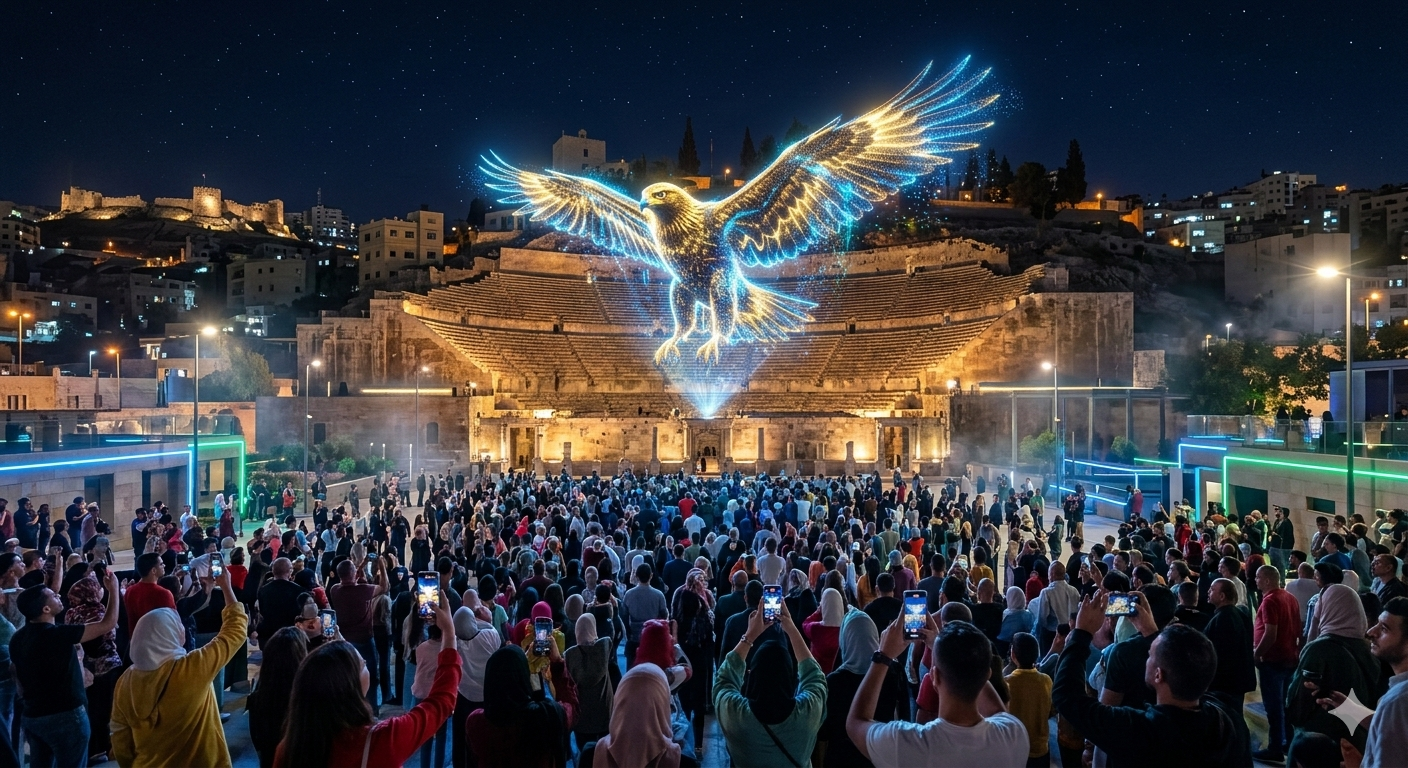
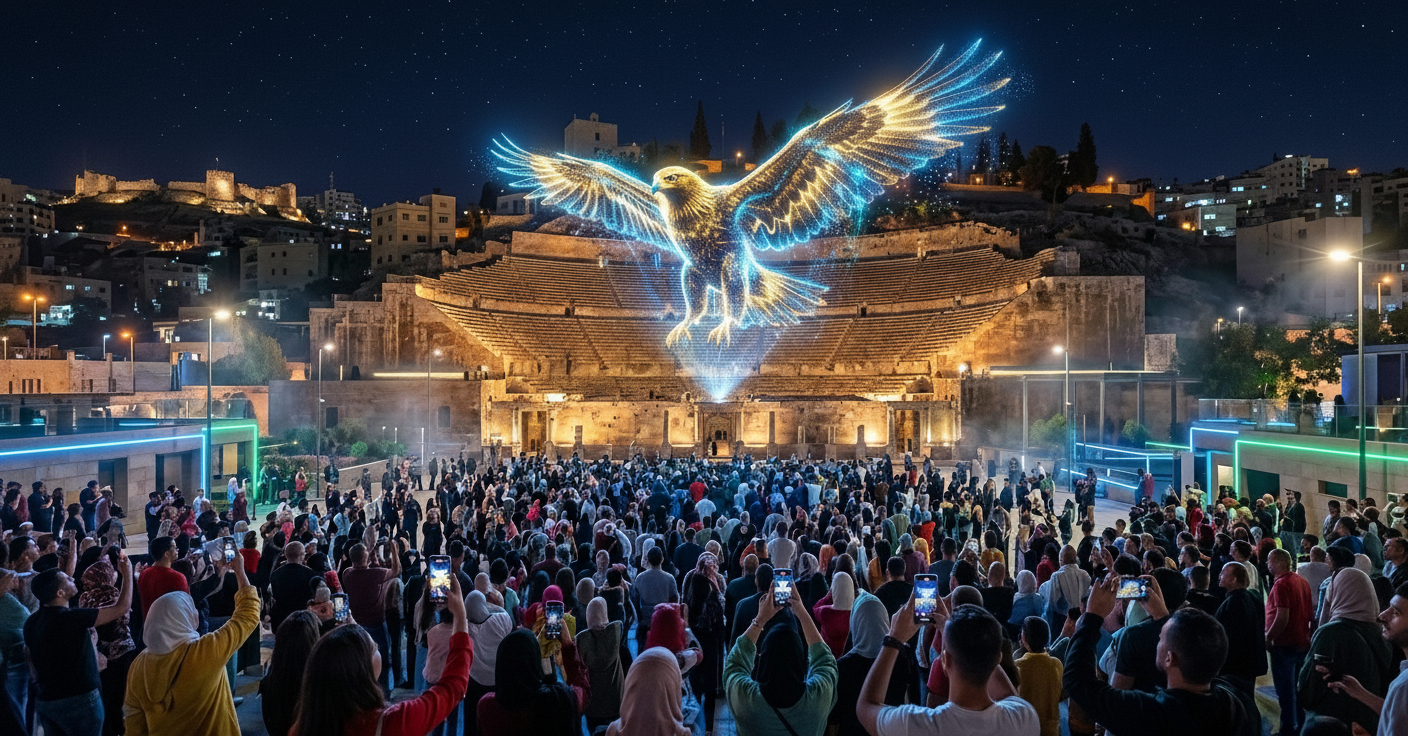
Fix: Update contact email to abdallhsmj@gmail.com and remove Gemini watermarks from images

diff --git a/src/pages/Contact.tsx b/src/pages/Contact.tsx
@@ -75,6 +75,9 @@ export default function Contact() {
     const form = e.currentTarget;
     const formData = new FormData(form);
     
+    // Add timestamp for tracking
+    formData.append('submission-time', new Date().toISOString());
+    
     try {
       // Submit to Netlify Forms
       const response = await fetch("/", {
@@ -87,8 +90,8 @@ export default function Contact() {
       if (response.ok || response.status === 301 || response.status === 302) {
         // Form submitted successfully
         form.reset();
-        toast.success('تم استلام رسالتك بنجاح! فريقنا سيتواصل معك قريباً.', {
-          description: 'شكراً لاهتمامك بمنصة عمان الذكية.',
+        toast.success('تم استلام رسالتك بنجاح! سيتم إرسال رسالة تأكيد إلى بريدك الإلكتروني.', {
+          description: 'شكراً لاهتمامك بمنصة عمان الذكية. فريقنا سيتواصل معك قريباً.',
           duration: 5000,
         });
         // Navigate to thank you page after a short delay
@@ -100,7 +103,9 @@ export default function Contact() {
       }
     } catch (error) {
       console.error('Form submission error:', error);
-      toast.error('حدث خطأ أثناء إرسال الرسالة. يرجى المحاولة مرة أخرى.');
+      toast.error('حدث خطأ أثناء إرسال الرسالة. يرجى المحاولة مرة أخرى.', {
+        description: 'تأكد من اتصالك بالإنترنت وحاول مرة أخرى.',
+      });
     } finally {
       setIsSubmitting(false);
     }
@@ -233,7 +238,7 @@ export default function Contact() {
 
                   <div className="flex items-start gap-3 p-4 rounded-xl bg-blue-500/10 border border-blue-500/20 animate-fade-in">
                     <CheckCircle2 className="h-5 w-5 text-blue-600 flex-shrink-0 mt-0.5" />
-                    <p className="text-sm text-blue-900 dark:text-blue-300 font-medium">سيتم معالجة رسالتك من قبل فريقنا وسنعود إليك في غضون 24 ساعة.</p>
+                    <p className="text-sm text-blue-900 dark:text-blue-300 font-medium">سيتم معالجة رسالتك من قبل فريقنا وسنعود إليك في غضون 24 ساعة. تحقق من بريدك الإلكتروني (وصندوق البريد العشوائي) للتأكد من استقبال رسالة التأكيد.</p>
                   </div>
 
                   <Button 

diff --git a/public/forms.html b/public/forms.html
@@ -20,6 +20,7 @@
             <option value="general">General</option>
         </select>
         <textarea name="message" required></textarea>
+        <input type="hidden" name="submission-time" />
         <input type="hidden" name="form-name" value="contact" />
         <input type="hidden" name="bot-field" />
     </form>
